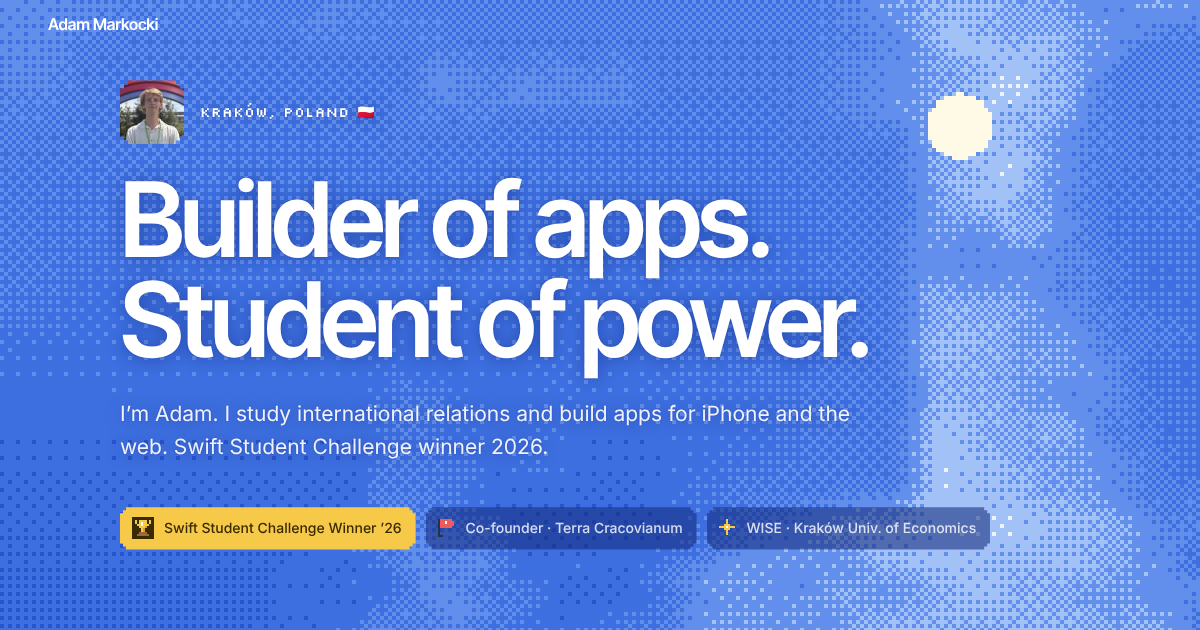
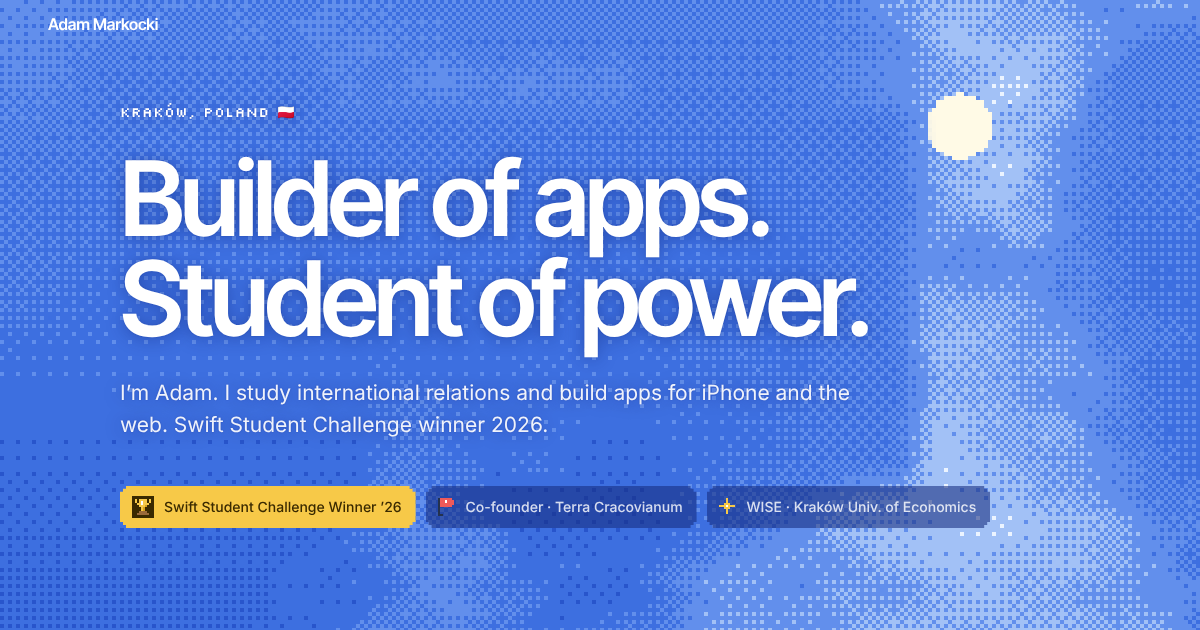
Remove small photo from the hero
Claude-Session: https://claude.ai/code/session_01AiiBfbtU2yibz9rucurAPe

diff --git a/styles.css b/styles.css
@@ -123,7 +123,6 @@ h2 { font-size: clamp(34px, 5vw, 56px); }
   display: flex; flex-direction: column; justify-content: center;
 }
 .hello { display: flex; align-items: center; gap: 16px; margin-bottom: 26px; }
-.face { --n: 4px; width: 64px; height: 64px; object-fit: cover; flex: none; background: var(--panel); }
 .eyebrow { color: var(--ink); }
 .hero-title { font-size: clamp(48px, 9.4vw, 128px); line-height: .96; letter-spacing: -.045em; max-width: 12ch; text-wrap: balance; }
 .lede { font-size: clamp(18px, 2vw, 21px); color: rgba(255, 255, 255, .92); max-width: 36em; margin-top: 28px; line-height: 1.55; }
@@ -282,7 +281,6 @@ h2 { font-size: clamp(34px, 5vw, 56px); }
   .hero { padding-top: 110px; padding-bottom: 110px; }
   .about { grid-template-columns: 1fr; }
   .avatar { width: 100%; height: auto; aspect-ratio: 1; max-width: 320px; }
-  .face { width: 52px; height: 52px; }
   .avatar > span { width: 48px; height: 48px; }
   .hotbar a { width: 44px; height: 44px; }
   .hotbar kbd { display: none; }

diff --git a/index.html b/index.html
@@ -61,7 +61,6 @@
   <main>
     <section class="hero" id="home" data-section="0">
       <div class="hello" data-dim>
-        <img class="face notch" id="face" src="assets/adam-face.jpg" alt="Adam Markocki" width="64" height="64">
         <p class="eyebrow px" data-i18n="hero.eyebrow">Kraków, Poland 🇵🇱</p>
       </div>
       <h1 class="hero-title" data-dim data-i18n="hero.title">Builder of apps.<br>Student of power.</h1>

diff --git a/js/main.js b/js/main.js
@@ -97,7 +97,6 @@
     }).join('');
     $('#gh-link').href = 'https://github.com/' + S.github;
     if (S.photo) $('#avatar').innerHTML = '<img src="' + esc(S.photo) + '" alt="' + esc(S.name) + '" width="240" height="240" loading="lazy">';
-    if (S.face) $('#face').src = S.face; else $('#face').remove();
     if (!S.email) $('#email-btn').hidden = true;
   }
 

diff --git a/content.js b/content.js
@@ -11,7 +11,6 @@ window.SITE = {
   github: "MarkockiAdam",               // used for the contributions heatmap
   email: "markockidev@icloud.com",
   photo: "assets/adam.jpg",             // big photo in About
-  face: "assets/adam-face.jpg",         // small photo in the hero
 
   socials: [
     { label: "X / Twitter", url: "https://x.com/MarkockiAdam" },
